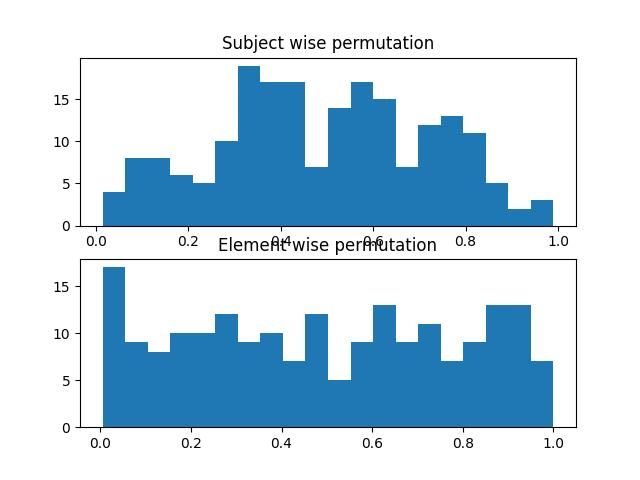
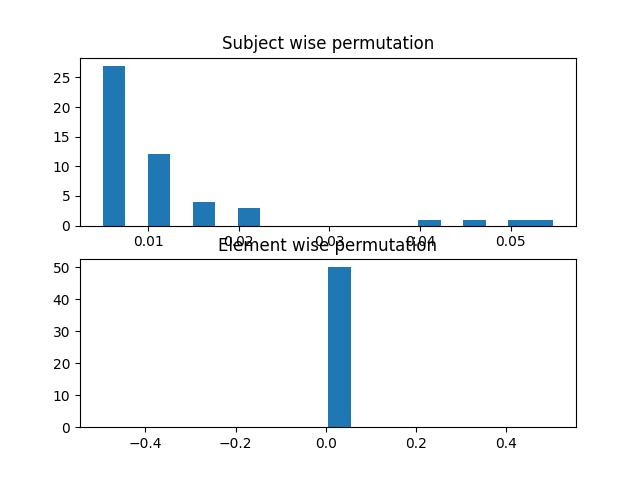
combining across orders

diff --git a/sim_isc.py b/sim_isc.py
@@ -1,4 +1,4 @@
-from brainiak.isc import isc, bootstrap_isc
+from brainiak.isc import isc, bootstrap_isc, compute_summary_statistic
 import numpy as np
 from matplotlib import pyplot as plt
 from scipy.spatial.distance import squareform
@@ -6,50 +6,105 @@ from brainiak.utils.utils import (array_correlation,
                                   phase_randomize,
                                   p_from_null,
                                   _check_timeseries_input)
+import pandas as pd
+
 
 import scipy
 
 ntp=200
 nsubj=20
-nsim = 200
+nsim = 10
+norder = 6  # normally the voxels dimension, here I'm using it for our different orders
 
-amp_sig = 0
 amp_noise_mean = 2
-amp_noise_std = 0
-
+amp_noise_std = 1
+amp_order_factor = [1,1,1,1.2,0.8,0.7] # some orders have less signal and more noise
 
 # Noise
 allisc=[]
 allp_sw=[]
+allp_combined_method1_sw=[]
+allp_combined_method2_sw=[]
 allp_ew=[]
-for simind in range(nsim):
-    sig = scipy.signal.detrend(np.cumsum(2 * amp_sig * np.random.randn(ntp))) # Signal for a given experiment
-    
-    y=np.zeros((ntp, nsubj)) 
-    for subjind in range(nsubj):
-        subjnoise = amp_noise_mean + np.random.randn(1)*amp_noise_std # add noise for each subject (some better than others)
-        y[:,subjind] = np.random.randn(ntp) * subjnoise + sig # signal same for all subjects
-    simisc = isc(np.reshape(y, [ntp, 1, nsubj]), pairwise=True)
-    if not simind:
-        plt.figure()
-        plt.imshow(squareform(simisc[:,0]))
-        plt.colorbar()
-        plt.savefig('exampleisc.jpg')
-    
-    observed, ci, p, distribution = bootstrap_isc(simisc, pairwise=True, n_bootstraps=200 )
-    allp_sw.extend( p)
 
-    observed, ci, p, distribution = bootstrap_isc(simisc, pairwise=False, n_bootstraps=200)
-    allp_ew.extend( p)
+# Signal amplitude
 
-fig, ax = plt.subplots(nrows=2)
-ax[0].hist(allp_sw, bins=20)
-ax[0].set_title('Subject wise permutation')
-ax[1].hist(allp_ew, bins=20)
-ax[1].set_title('Element wise permutation')
-plt.savefig('allp.jpg')
-print(f'SW false positive rate (alpha=0.05) {np.sum(np.array(allp_sw)<0.05)/nsim}')
-print(f'EW false positive rate (alpha=0.05) {np.sum(np.array(allp_ew)<0.05)/nsim}')
+df=pd.DataFrame()
 
+for amp_sig in np.arange(0,1,0.2):
+        
+    for simind in range(nsim):
+        y=np.zeros((ntp, norder, nsubj)) 
+        for orderind in range(norder):
+            sig =  amp_order_factor[orderind] * amp_sig * np.random.randn(ntp) # Signal for a given orderel (i.e., order)        
+            for subjind in range(nsubj):
+                subjnoise = amp_noise_mean + np.random.randn(1)*amp_noise_std # add noise for each subject (some better than others)
+                y[:,orderind,subjind] = np.random.randn(ntp) / amp_order_factor[orderind] * subjnoise + sig # signal same for all subjects
+        simisc = isc(y, pairwise=True)
+        if not simind:
+            plt.figure()
+            plt.imshow(squareform(simisc[:,0]))
+            plt.colorbar()
+            plt.savefig('exampleisc.jpg')
+        
+        observed, ci, p, distribution = bootstrap_isc(simisc, pairwise=True, n_bootstraps=200 )
+        #allp_sw.append( p)
+
+        # Shift bootstrap distribution to 0 for hypothesis test
+        shifted = distribution - observed
+
+        # Get p-value for actual median from shifted distribution
+        p = p_from_null(observed, shifted,
+                        side='right', exact=False,
+                        axis=0)
+        allp_sw.append(p)
+
+        # Alternatively single p from combined data
+
+        # METHOD 1 - average SHIFTED
+        combined_p = p_from_null(np.mean(observed), np.mean(shifted, axis=1),
+                        side='right', exact=False,
+                        axis=0)
+        allp_combined_method1_sw.append(combined_p)
+
+        if not simind:
+            plt.figure()
+            plt.hist(shifted.ravel(), bins=50)
+            plt.title(f'Example null distribution (observed={np.mean(observed)})')
+            plt.savefig(f'null_dist_method1.jpg')
+
+        # METHOD 2 - average DISTRIBUTION
+        distribution = np.mean(np.array(distribution), axis=1)
+        # Shift bootstrap distribution to 0 for hypothesis test
+        observed2 = np.mean(compute_summary_statistic(simisc, 'median', axis=0))
+        shifted = distribution - observed2
+        combined_p = p_from_null(observed2, shifted,
+                        side='right', exact=False,
+                        axis=0)
+        allp_combined_method2_sw.append(combined_p)
+
+        if not simind:
+            plt.figure()
+            plt.hist(shifted.ravel(), bins=50)
+            plt.title(f'Example null distribution (observed={observed2})')
+            plt.savefig(f'null_dist_method2.jpg')
+
+        
+
+    print(f'signal {amp_sig}')
+    print(f' SW individual false positive rate (alpha=0.05) {np.mean(np.array(allp_sw)<0.05, axis=0)}')
+    print(f' SW combined method 1 false positive rate (alpha=0.05) {np.mean(np.array(allp_combined_method1_sw)<0.05, axis=0)}')
+    print(f' SW combined method 2 false positive rate (alpha=0.05) {np.mean(np.array(allp_combined_method2_sw)<0.05, axis=0)}')
+
+    df = df.append({'amp_sig':amp_sig, 'fpr_ind': np.mean(np.array(allp_sw)<0.05, axis=0), 'fpr_comb1': np.mean(np.array(allp_combined_method1_sw)<0.05, axis=0), 'fpr_comb2': np.mean(np.array(allp_combined_method2_sw)<0.05, axis=0)}, ignore_index=True)
+df.to_csv('fpr_by_signal.csv')
+plt.figure()
+for ind in range(norder):
+    plt.plot(df['amp_sig'], [x[ind] for x in df['fpr_ind']], color='gray')
+plt.plot('amp_sig', 'fpr_comb1','bx', data=df )
+plt.plot('amp_sig', 'fpr_comb2', 'r+', data=df)
+plt.xlabel('Amplitude of signal')
+plt.ylabel('Probability of rejecting H0')
+plt.savefig('fpr_by_signal.jpg')
 #print(allp)
 a=1

diff --git a/minimal_isc.py b/minimal_isc.py
@@ -9,7 +9,7 @@ import scipy
 
 ntp = 200   # number of timepoints
 nsubj = 20  # number of subjects
-nsim = 200  # number of simulations
+nsim = 50  # number of simulations
 nvox = 10 # number of voxels
 alpha = 0.05    # expected false positive level
 
@@ -22,12 +22,12 @@ for simind in range(nsim):
 
     # subject-wise
     observed, ci, p, distribution = bootstrap_isc(
-        simisc, pairwise=True, n_bootstraps=1000)
+        simisc, pairwise=True, n_bootstraps=200)
     allp_sw.extend(p)
 
     # element-wise
     observed, ci, p, distribution = bootstrap_isc(
-        simisc, pairwise=False, n_bootstraps=1000)   
+        simisc, pairwise=False, n_bootstraps=200)   
     allp_ew.extend(p)
 
 print(f'SW false positive rate (alpha={alpha}) {np.mean(np.array(allp_sw)<alpha)}')
